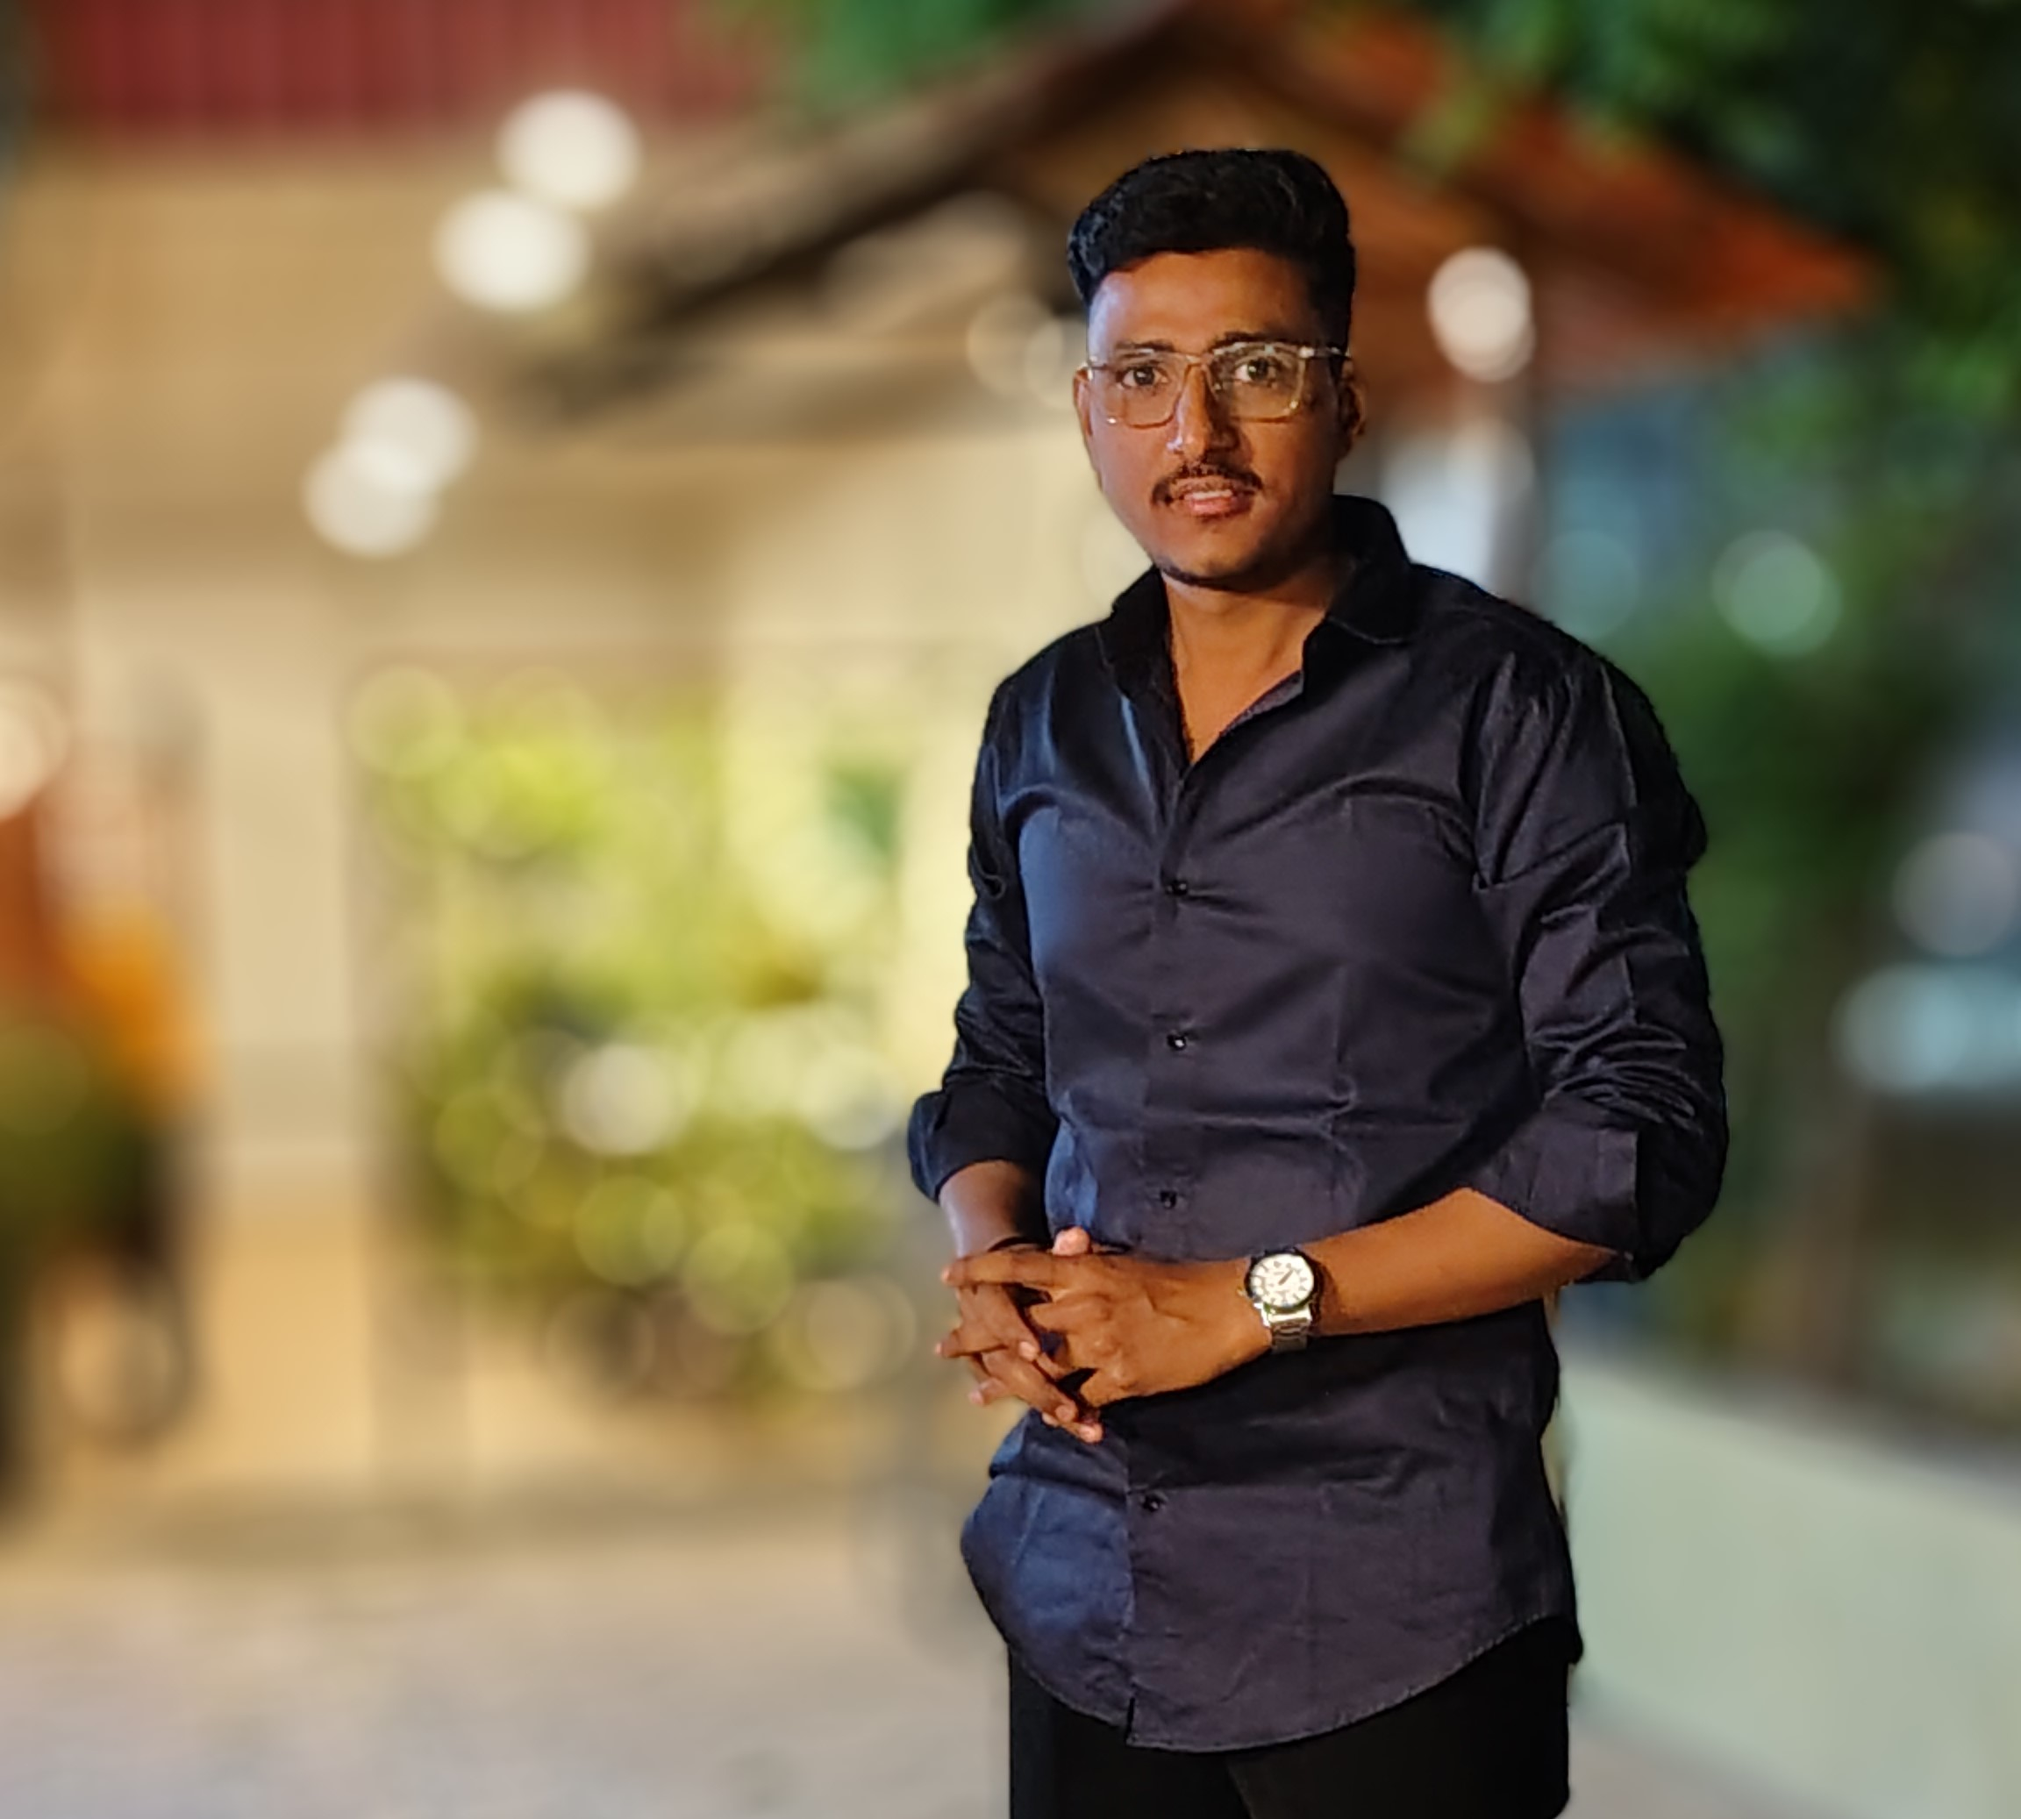
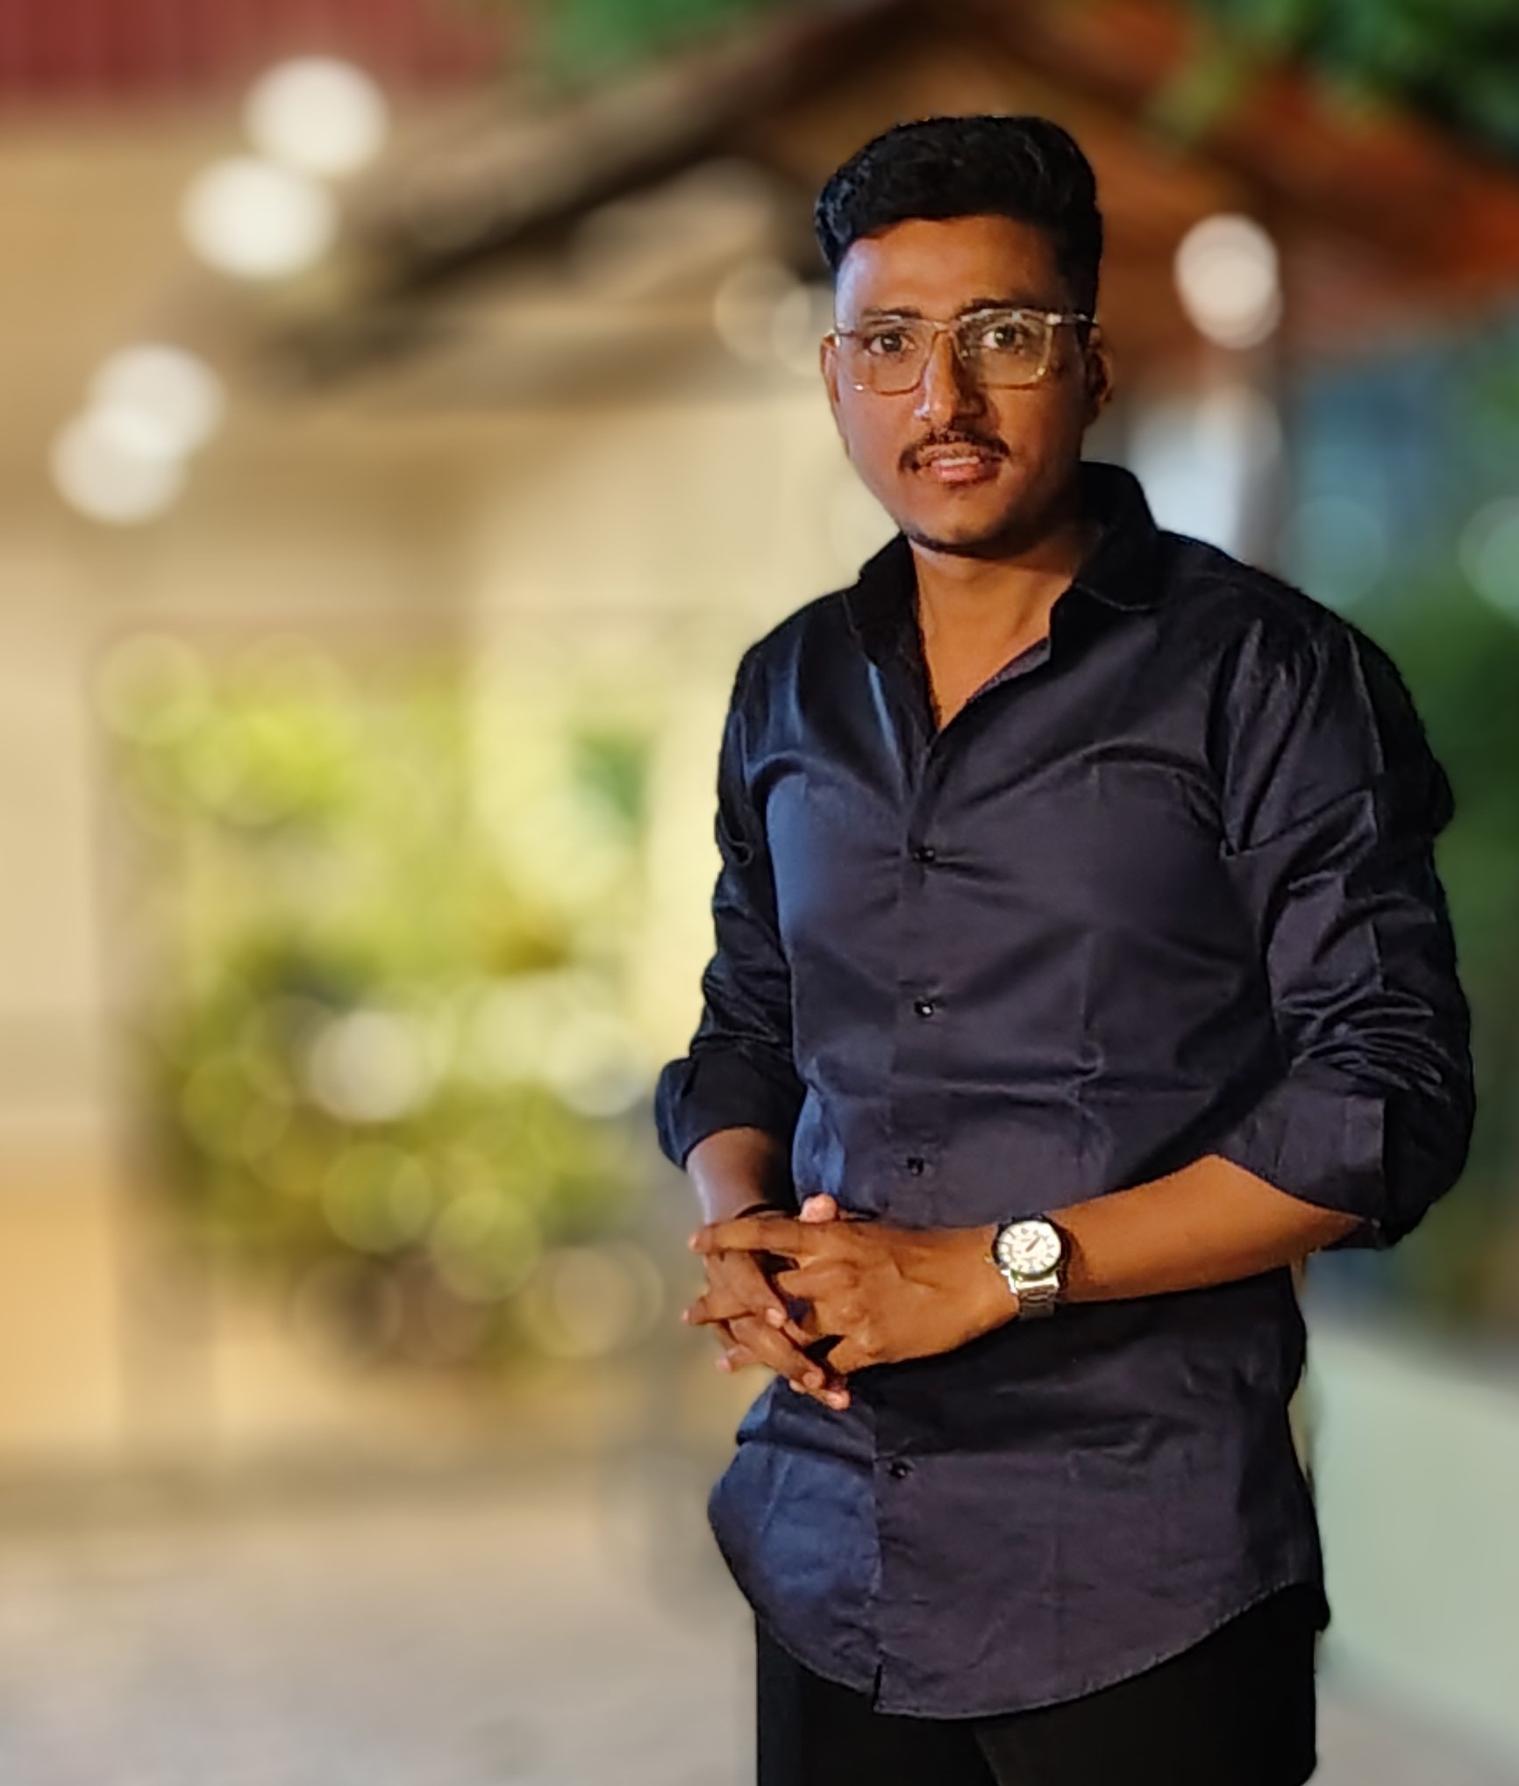
Updated

diff --git a/index.html b/index.html
@@ -141,7 +141,7 @@
 	      	<div class="overlay"></div>
 	         <div class="container">
 	          <div class="row d-md-flex no-gutters slider-text align-items-end justify-content-end" data-scrollax-parent="true">
-	          	<div class="one-third js-fullheight order-md-last img" style="background-image:url(images/prs.jpg);">
+	          	<div class="one-third js-fullheight order-md-last img" style="background-image:url(images/img2.jpg);">
 	          	 <div class="overlay"></div>
 	          	</div>
 		          <div class="one-forth d-flex  align-items-center ftco-animate" data-scrollax=" properties: { translateY: '70%' }">
